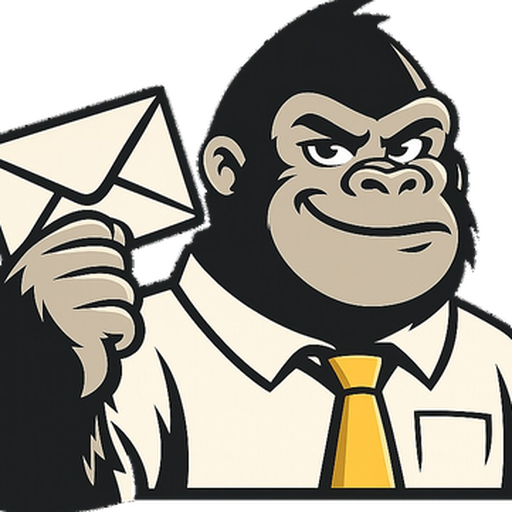
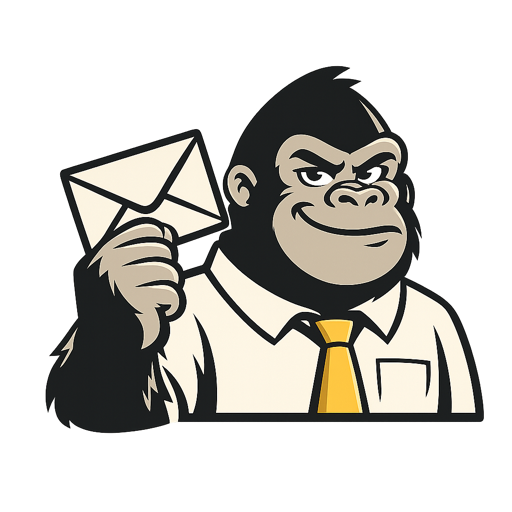
Update branding and contact information
- Replace page title with just "BigEmailDaddy" (remove tagline from metadata)
- Update logo and favicon to gorilla mascot design
- Replace contact email with [email redacted] across privacy policy and terms of service
- Add smooth scale animation on sign-in page transition
- Add GetStartedButton component for cleaner navigation handling
- Add SignInWithGoogleForm component to standardize auth flow

diff --git a/components/marketing/AuthLoadingOverlay.tsx b/components/marketing/AuthLoadingOverlay.tsx
@@ -1,0 +1,98 @@
+"use client";
+
+import Image from "next/image";
+import { createPortal } from "react-dom";
+import {
+  useEffect,
+  useRef,
+  useState,
+  type CSSProperties,
+} from "react";
+
+const EXIT_MS = 420;
+
+export function AuthLoadingOverlay({
+  open,
+  message = "Loading…",
+  onExitComplete,
+}: {
+  open: boolean;
+  message?: string;
+  onExitComplete?: () => void;
+}) {
+  const [mounted, setMounted] = useState(false);
+  const [portalOn, setPortalOn] = useState(false);
+  const [visible, setVisible] = useState(false);
+  const exitCallbackRef = useRef(onExitComplete);
+
+  useEffect(() => {
+    exitCallbackRef.current = onExitComplete;
+  }, [onExitComplete]);
+
+  useEffect(() => {
+    setMounted(true);
+  }, []);
+
+  useEffect(() => {
+    if (!mounted || !open) return;
+    setPortalOn(true);
+    setVisible(false);
+    const id = requestAnimationFrame(() => {
+      requestAnimationFrame(() => setVisible(true));
+    });
+    return () => cancelAnimationFrame(id);
+  }, [open, mounted]);
+
+  useEffect(() => {
+    if (!mounted || open || !portalOn) return;
+    setVisible(false);
+    const timer = window.setTimeout(() => {
+      setPortalOn(false);
+      exitCallbackRef.current?.();
+    }, EXIT_MS);
+    return () => window.clearTimeout(timer);
+  }, [open, portalOn, mounted]);
+
+  if (!mounted || !portalOn) return null;
+
+  const layerStyle: CSSProperties = {
+    fontFamily: "var(--font-mono), monospace",
+  };
+
+  return createPortal(
+    <div
+      className={`fixed inset-0 z-[100] flex flex-col items-center justify-center bg-[#faf8f4]/65 backdrop-blur-lg transition-[opacity,backdrop-filter] duration-[420ms] ease-[cubic-bezier(0.16,1,0.3,1)] motion-reduce:transition-none ${
+        visible ? "opacity-100" : "opacity-0"
+      }`}
+      style={layerStyle}
+      aria-busy={true}
+    >
+      <div
+        className={`flex flex-col items-center transition-[opacity,transform] duration-[420ms] ease-[cubic-bezier(0.16,1,0.3,1)] motion-reduce:transition-none ${
+          visible
+            ? "translate-y-0 scale-100 opacity-100"
+            : "translate-y-3 scale-[0.95] opacity-0"
+        }`}
+      >
+        <div className="animate-pulse">
+          <Image
+            src="/logo.png"
+            alt=""
+            width={200}
+            height={200}
+            className="h-auto w-[min(52vw,200px)] object-contain md:w-[220px]"
+            priority
+          />
+        </div>
+        <p
+          role="status"
+          className="mt-8 max-w-[90vw] text-center text-[12px] font-medium uppercase leading-relaxed tracking-[0.18em] text-[#5a5850] md:mt-10 md:text-[13px]"
+          aria-live="polite"
+        >
+          {message}
+        </p>
+      </div>
+    </div>,
+    document.body,
+  );
+}

diff --git a/components/marketing/GetStartedButton.tsx b/components/marketing/GetStartedButton.tsx
@@ -1,0 +1,40 @@
+"use client";
+
+import { useRouter } from "next/navigation";
+import {
+  useCallback,
+  useEffect,
+  type CSSProperties,
+  type ReactNode,
+} from "react";
+
+export function GetStartedButton({
+  className,
+  style,
+  children = "Get started →",
+}: {
+  className?: string;
+  style?: CSSProperties;
+  children?: ReactNode;
+}) {
+  const router = useRouter();
+
+  useEffect(() => {
+    router.prefetch("/signin");
+  }, [router]);
+
+  const handleClick = useCallback(() => {
+    router.push("/signin");
+  }, [router]);
+
+  return (
+    <button
+      type="button"
+      onClick={handleClick}
+      className={className}
+      style={style}
+    >
+      {children}
+    </button>
+  );
+}

diff --git a/components/marketing/SignInWithGoogleForm.tsx b/components/marketing/SignInWithGoogleForm.tsx
@@ -1,0 +1,19 @@
+"use client";
+
+export function SignInWithGoogleForm({
+  action,
+}: {
+  action: () => Promise<void>;
+}) {
+  return (
+    <form action={action} className="mt-10">
+      <button
+        type="submit"
+        className="w-full rounded-md bg-[#111010] py-4 text-[14px] font-medium text-[#faf8f4] transition-opacity hover:opacity-75 md:w-auto md:px-10"
+        style={{ fontFamily: "var(--font-sans), system-ui, sans-serif" }}
+      >
+        Continue with Google →
+      </button>
+    </form>
+  );
+}

diff --git a/app/globals.css b/app/globals.css
@@ -59,3 +59,18 @@ body {
 .marketing-root {
   font-family: var(--font-sans), system-ui, sans-serif;
 }
+
+@keyframes signin-enter {
+  from { 
+    opacity: 0;
+    transform: scale(0.98);
+  }
+  to   { 
+    opacity: 1;
+    transform: scale(1);
+  }
+}
+
+.signin-transition {
+  animation: signin-enter 0.5s cubic-bezier(0.16, 1, 0.3, 1) both;
+}

diff --git a/app/(marketing)/signin/page.tsx b/app/(marketing)/signin/page.tsx
@@ -1,10 +1,11 @@
 import Image from "next/image";
 import Link from "next/link";
 import { signInWithGoogleToDashboard } from "@/app/(marketing)/actions";
+import { SignInWithGoogleForm } from "@/components/marketing/SignInWithGoogleForm";
 
 export default function SignInPage() {
   return (
-    <main className="flex min-h-screen">
+    <main className="signin-transition flex min-h-screen">
       {/* Left — dark mascot panel */}
       <div className="hidden w-[42%] flex-col items-center justify-center bg-[#111010] md:flex">
         <Image
@@ -97,15 +98,7 @@ export default function SignInPage() {
           ))}
         </div>
 
-        <form action={signInWithGoogleToDashboard} className="mt-10">
-          <button
-            type="submit"
-            className="w-full rounded-md bg-[#111010] py-4 text-[14px] font-medium text-[#faf8f4] transition-opacity hover:opacity-75 md:w-auto md:px-10"
-            style={{ fontFamily: "var(--font-sans), system-ui, sans-serif" }}
-          >
-            Continue with Google →
-          </button>
-        </form>
+        <SignInWithGoogleForm action={signInWithGoogleToDashboard} />
       </div>
     </main>
   );

diff --git a/components/marketing/HeroCTAs.tsx b/components/marketing/HeroCTAs.tsx
@@ -1,6 +1,6 @@
 "use client";
 
-import Link from "next/link";
+import { GetStartedButton } from "@/components/marketing/GetStartedButton";
 
 export function HeroCTAs() {
   return (
@@ -8,12 +8,7 @@ export function HeroCTAs() {
       className="hero-animate mt-12 flex flex-wrap items-center justify-center gap-4"
       style={{ animationDelay: "380ms" }}
     >
-      <Link
-        href="/signin"
-        className="rounded-md bg-[#111010] px-7 py-3.5 text-[14px] font-medium text-[#faf8f4] transition-opacity hover:opacity-75"
-      >
-        Get started →
-      </Link>
+      <GetStartedButton className="rounded-md bg-[#111010] px-7 py-3.5 text-[14px] font-medium text-[#faf8f4] transition-opacity hover:opacity-75" />
       <button
         type="button"
         onClick={() => {

diff --git a/components/marketing/Nav.tsx b/components/marketing/Nav.tsx
@@ -1,5 +1,5 @@
 import Image from "next/image";
-import Link from "next/link";
+import { GetStartedButton } from "@/components/marketing/GetStartedButton";
 
 export default function Nav() {
   return (
@@ -21,13 +21,10 @@ export default function Nav() {
         </span>
       </a>
 
-      <Link
-        href="/signin"
+      <GetStartedButton
         className="rounded-md bg-[#111010] px-4 py-2 text-[11px] uppercase tracking-wider text-[#faf8f4] transition-opacity hover:opacity-75"
         style={{ fontFamily: "var(--font-mono), monospace" }}
-      >
-        Get started →
-      </Link>
+      />
     </nav>
   );
 }

diff --git a/components/marketing/Pricing.tsx b/components/marketing/Pricing.tsx
@@ -1,5 +1,5 @@
-import Link from "next/link";
 import { Reveal } from "@/components/marketing/Reveal";
+import { GetStartedButton } from "@/components/marketing/GetStartedButton";
 
 const FEATURES = [
   "Resume + GitHub identity extraction — no hallucinated skills",
@@ -53,12 +53,7 @@ export default function Pricing() {
             ))}
           </ul>
 
-          <Link
-            href="/signin"
-            className="block w-full rounded-md bg-[#111010] py-3.5 text-center text-[14px] font-medium text-white transition-opacity hover:opacity-75"
-          >
-            Get started →
-          </Link>
+          <GetStartedButton className="block w-full rounded-md bg-[#111010] py-3.5 text-center text-[14px] font-medium text-white transition-opacity hover:opacity-75" />
         </div>
         </Reveal>
 

diff --git a/app/(marketing)/layout.tsx b/app/(marketing)/layout.tsx
@@ -36,12 +36,12 @@ export const metadata: Metadata = {
     process.env.NEXT_PUBLIC_APP_URL ?? "http://localhost:3000",
   ),
   title: {
-    absolute: "BigEmailDaddy — Your cold emails are trash. Ours aren't.",
+    absolute: "BigEmailDaddy",
   },
   description:
     "Cold email for university students that actually gets replies. We research the target, find the overlap with your work, and write the email.",
   openGraph: {
-    title: "BigEmailDaddy — Your cold emails are trash. Ours aren't.",
+    title: "BigEmailDaddy",
     description:
       "Cold email for university students that actually gets replies. We research the target, find the overlap with your work, and write the email.",
     type: "website",
@@ -56,7 +56,7 @@ export const metadata: Metadata = {
   },
   twitter: {
     card: "summary_large_image",
-    title: "BigEmailDaddy — Your cold emails are trash. Ours aren't.",
+    title: "BigEmailDaddy",
     description:
       "Cold email for university students that actually gets replies. We research the target, find the overlap with your work, and write the email.",
     images: ["/logo.png"],

diff --git a/app/(marketing)/terms/page.tsx b/app/(marketing)/terms/page.tsx
@@ -24,7 +24,7 @@ const SECTIONS = [
     body: [
       "You sign in with your Google account. You are responsible for keeping your account secure.",
       "We reserve the right to suspend or terminate accounts that violate these terms, are used for spam, or are inactive for more than 12 months.",
-      "You can delete your account at any time by emailing [email redacted].",
+      "You can delete your account at any time by emailing [email redacted].",
     ],
   },
   {
@@ -32,7 +32,7 @@ const SECTIONS = [
     body: [
       "BigEmailDaddy is a subscription service at $30 USD per month. You can cancel at any time — no questions asked.",
       "Cancellation takes effect at the end of your current billing period. We do not offer partial refunds for unused time.",
-      "If you experience a technical issue that prevents you from using the service, contact us at [email redacted] and we will assess refunds on a case-by-case basis.",
+      "If you experience a technical issue that prevents you from using the service, contact us at [email redacted] and we will assess refunds on a case-by-case basis.",
     ],
   },
   {
@@ -60,7 +60,7 @@ const SECTIONS = [
   {
     title: "Contact",
     body: [
-      "Questions about these terms? Email [email redacted].",
+      "Questions about these terms? Email [email redacted].",
     ],
   },
 ];

diff --git a/app/(marketing)/privacy/page.tsx b/app/(marketing)/privacy/page.tsx
@@ -40,14 +40,14 @@ const SECTIONS = [
   {
     title: "Data retention and deletion",
     body: [
-      "You can delete your account and all associated data at any time by emailing [email redacted] with the subject line 'Delete my account'.",
+      "You can delete your account and all associated data at any time by emailing [email redacted] with the subject line 'Delete my account'.",
       "We will delete your profile, identity model, email records, and OAuth tokens within 7 days of receiving your request.",
     ],
   },
   {
     title: "Contact",
     body: [
-      "If you have any questions about this policy or how we handle your data, email us at [email redacted].",
+      "If you have any questions about this policy or how we handle your data, email us at [email redacted].",
     ],
   },
 ];